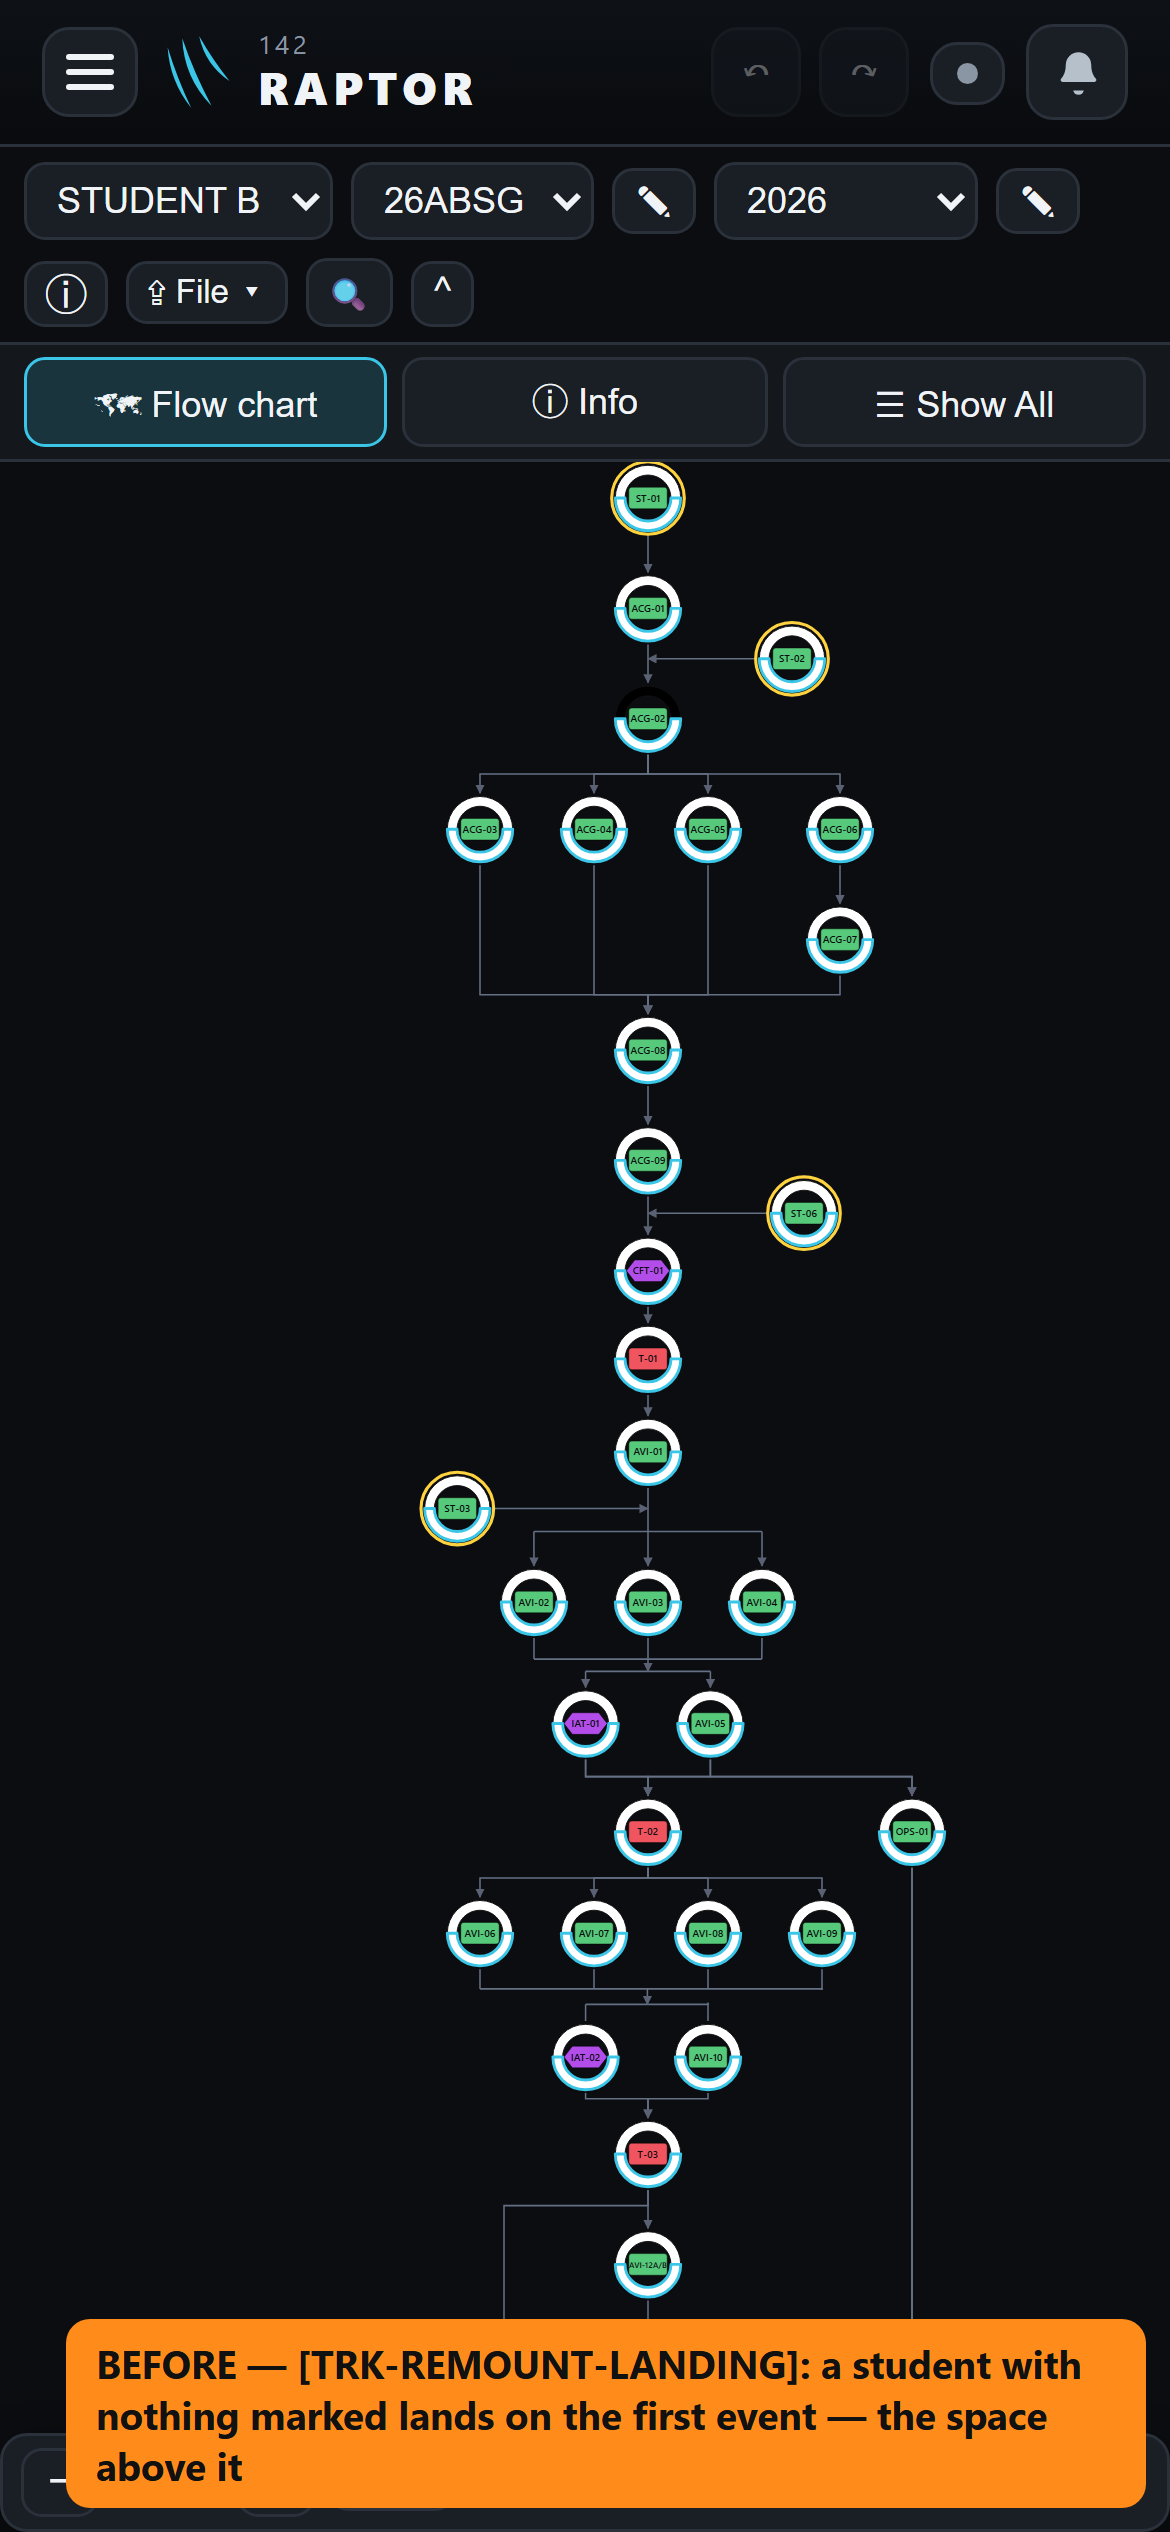
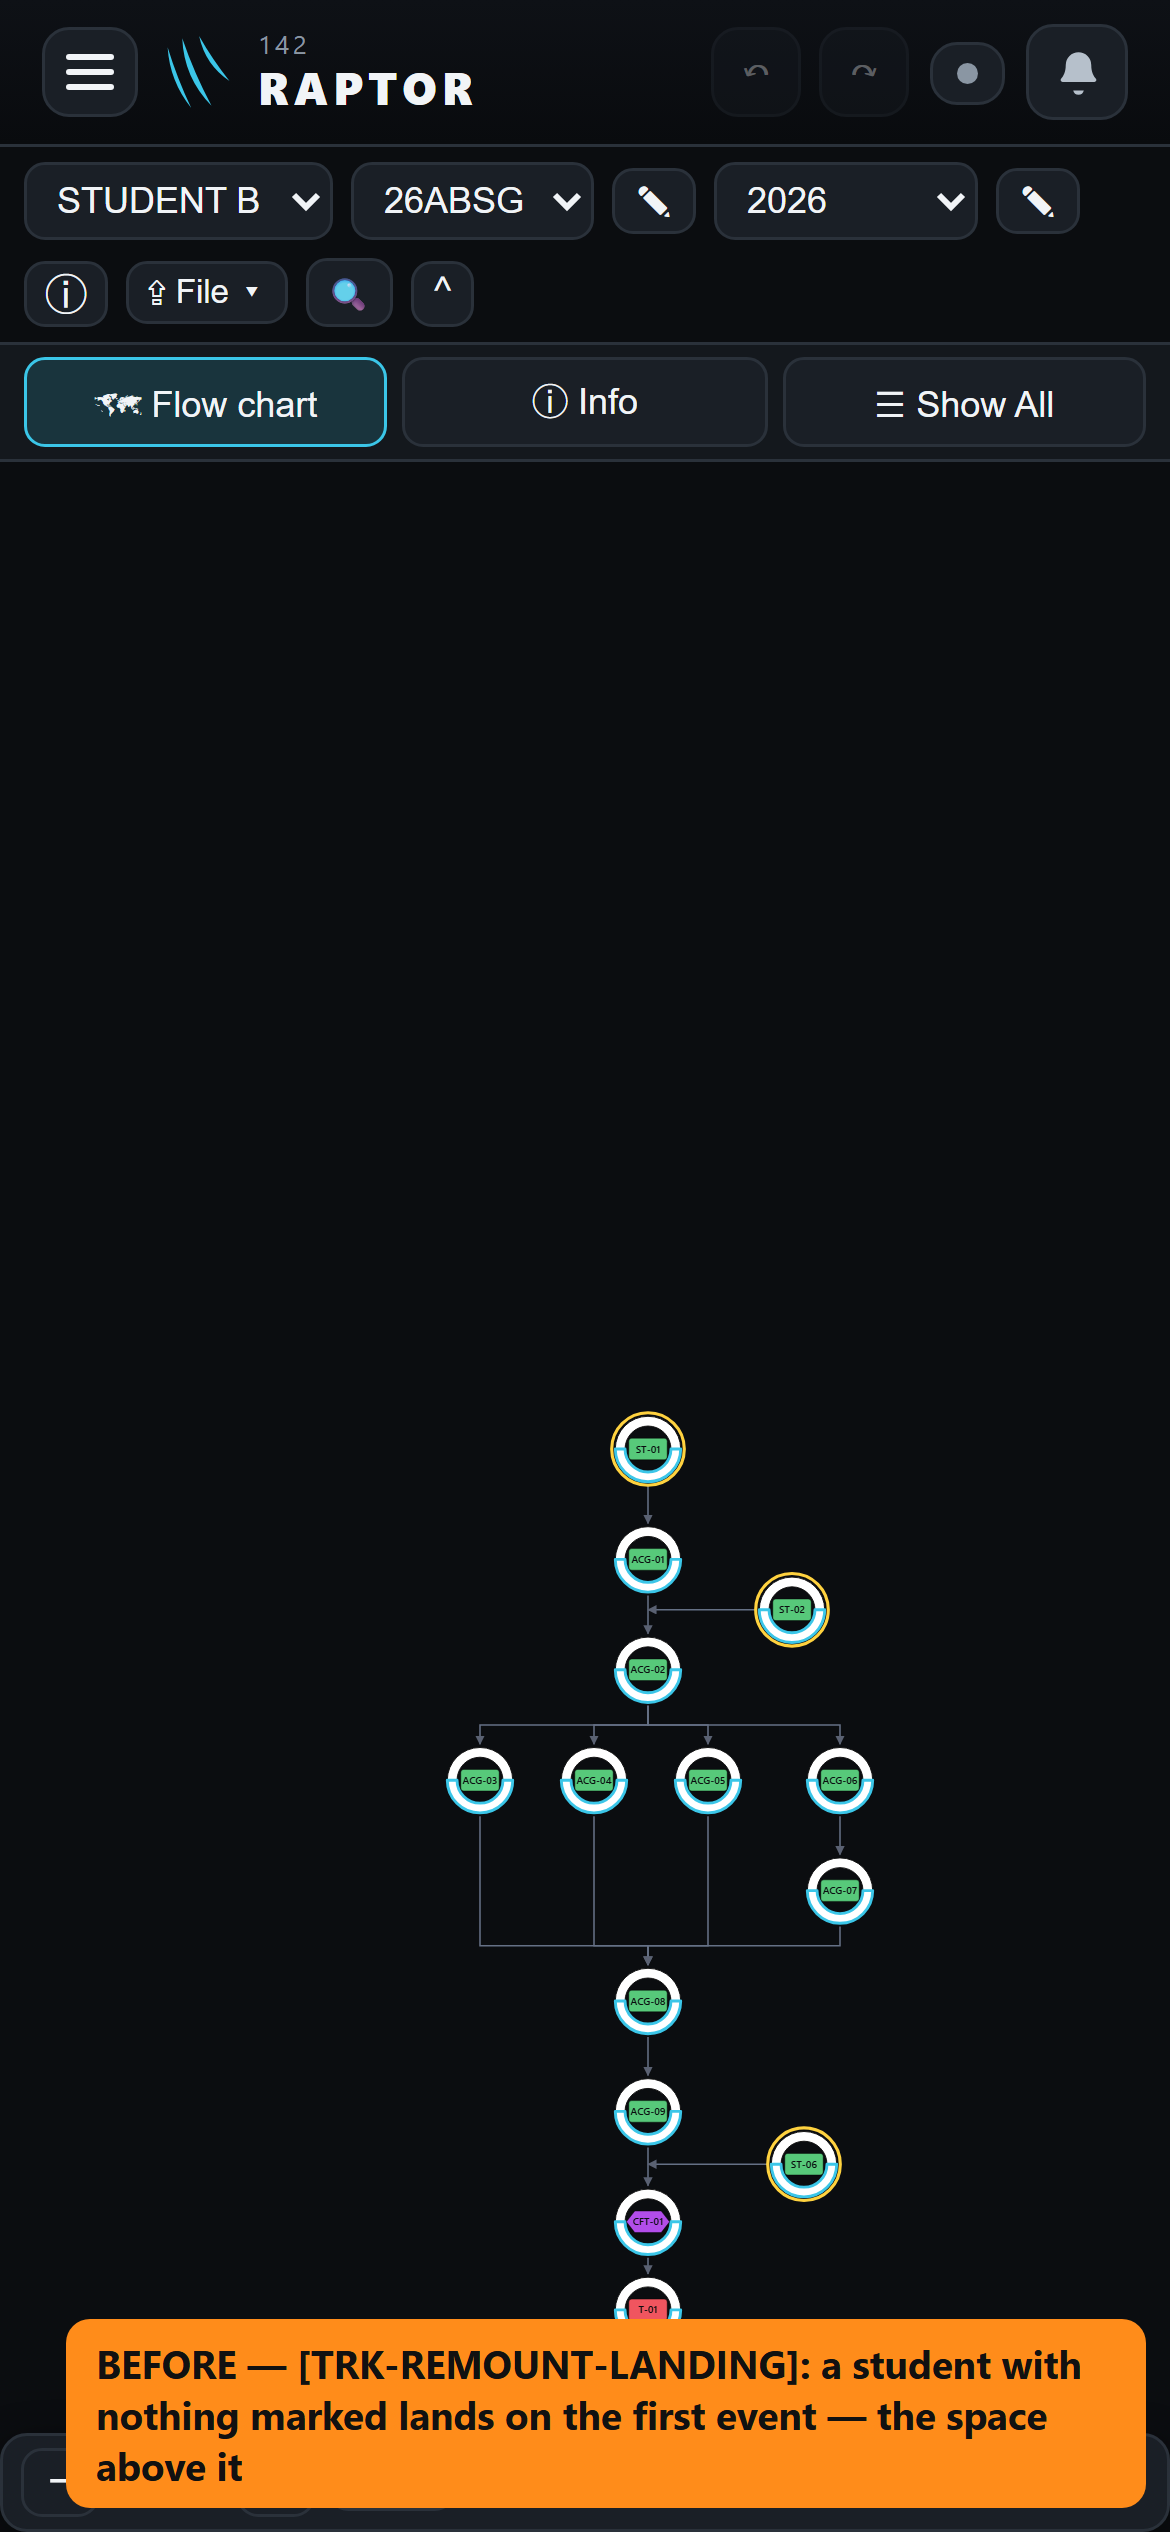
[TRACKER-BATCH] D980: a mouse grade draws no keyboard ring; the pop-up takes the keyboard once placed; the ring stays while it is up
The first after-pictures showed both: the blue ring after a grade pressed with the mouse
(the clicked button held the focus), and Enter's pop-up not taking the keyboard (it is drawn
hidden while it measures where to sit). Also the landing pictures now mark an event deep in
the chart and pick a student with the chart in view.

diff --git a/raptor-port/src/tracker/app/core.js b/raptor-port/src/tracker/app/core.js
@@ -3759,7 +3759,8 @@ function enableHScroll(el) {
     else if (e.key === 'End') { el.scrollLeft = el.scrollWidth; e.preventDefault(); }
   });
   el.addEventListener('focus', () => { let fv = true; try { fv = el.matches(':focus-visible'); } catch (_) {} kbdShown = fv; if (fv) { kbdLand(); paintKbdRing(); kbdKeepInView(); } });
-  el.addEventListener('blur', () => { kbdShown = false; paintKbdRing(); });
+  /* the keyboard leaving for the pop-up it opened keeps the ring on, so the event being marked stays marked */
+  el.addEventListener('blur', () => { if (pop && popByKey) return; kbdShown = false; paintKbdRing(); });
 }
 /* THE CHART BY KEYBOARD, ON A DESKTOP (owner D980, 17 Oct 26 — "As recommended", round 1, question 2). ONE Tab reaches
    the chart (the board is the one Tab stop — never one for each of its events); then the arrows follow its lines —
@@ -4389,10 +4390,14 @@ export function openPop(id, evt) {
 /* popByKey: the pop-up was opened from the keyboard, so it takes the keyboard (Pop.jsx) */
 export let popByKey = false;
 export function closePop() {
-  /* the keyboard was inside the pop-up: it goes back to the chart, on the same event, never to nothing (D980) */
-  const inside = typeof document !== 'undefined' && document.activeElement && document.activeElement.closest && !!document.activeElement.closest('#pop');
+  /* the KEYBOARD was inside the pop-up: it goes back to the chart, on the same event, never to nothing (D980). A mouse
+     press on a grade also puts the focus on that button (Chrome does), but that is no keyboard: the chart is not given
+     the focus and no ring is drawn — the walk's picture of a mouse grade wore the ring (17 Oct 26) */
+  const a = typeof document !== 'undefined' ? document.activeElement : null;
+  const inside = !!(a && a.closest && a.closest('#pop'));
+  let keys = popByKey; if (inside && !keys) { try { keys = a.matches(':focus-visible'); } catch (_) {} }
   pop = null; popMsg = null; popByKey = false; notify();
-  if (inside) kbdBack();
+  if (inside && keys) kbdBack();
 }
 /* A tap on a ball, outside arrange mode (owner, 9 Sep 26 — "click exactly at
    the portion of the pokeball that person exist in"): the ring is the crew

diff --git a/raptor-port/src/tracker/trk-batch-ui.test.tsx b/raptor-port/src/tracker/trk-batch-ui.test.tsx
@@ -80,6 +80,7 @@ describe('D980 — the chart by keyboard', () => {
     expect(C.pop && C.pop.id, 'the pop-up opens on that event').toBe(id)
     const g = C.gradeOf(C.active, id) || 0
     expect((document.activeElement as HTMLElement).dataset.g, 'the keyboard is on its grade as it is').toBe(g === 0 ? '0' : g)
+    expect(ball(id)!.querySelector('.kbdring'), 'the event being marked keeps its ring while the pop-up is up').toBeTruthy()
     /* Tab stays inside the pop-up */
     const pop = document.getElementById('pop')!
     const all = [...pop.querySelectorAll('button')], last = all[all.length - 1]!; last.focus()
@@ -105,6 +106,20 @@ describe('D980 — the chart by keyboard', () => {
     expect(C.pop).toBeNull()
     expect(C.gradeOf(C.active, id)).toBe('dco')
     expect(document.activeElement).toBe(board)
+    host.remove()
+  })
+
+  it('a grade pressed with the MOUSE (its button holding the focus, as Chrome leaves it) gives the chart no focus and draws no ring', async () => {
+    const { host } = await render(<Live draw={() => <Pop />} />)
+    ;(document.activeElement as HTMLElement)?.blur?.()
+    const id = C.SYL[3].id
+    await act(async () => { C.openPop(id, { clientX: 5, clientY: 5 }); await tick() })
+    const btn = document.querySelector('#pop .opts button[data-g="marg"]') as HTMLButtonElement
+    btn.focus()
+    await act(async () => { btn.click(); await tick() })
+    expect(C.gradeOf(C.active, id)).toBe('marg')
+    expect(document.activeElement, 'the chart is not given the focus').not.toBe(board)
+    expect(document.querySelectorAll('#flowSvg .kbdring'), 'no keyboard ring').toHaveLength(0)
     host.remove()
   })
 

diff --git a/raptor-port/src/tracker/components/Pop.jsx b/raptor-port/src/tracker/components/Pop.jsx
@@ -28,13 +28,14 @@ export default function Pop() {
      has now (Not done when it has none), so a second Enter changes nothing; the pop-up's own Escape (core.handleEscapeKey)
      and every grade and Close hand the keyboard back to the same event on the chart (core.closePop). Opened by a mouse or
      a finger it takes nothing, as before. */
-  const opened = p && p.id, byKey = core.popByKey;
+  /* after it is placed (posn): until then it is drawn hidden to be measured, and a hidden button takes no focus */
+  const opened = p && p.id, byKey = core.popByKey, placed = !!posn;
   useEffect(() => {
-    if (!opened || !byKey || !ref.current) return;
+    if (!opened || !byKey || !placed || !ref.current) return;
     const g = core.gradeOf(core.active, opened) || 0;
     const b = ref.current.querySelector(`.opts button[data-g="${g === 0 ? '0' : g}"]`) || ref.current.querySelector('.opts button');
     if (b) b.focus({ preventScroll: true });
-  }, [opened, byKey]);
+  }, [opened, byKey, placed]);
   /* Tab and Shift+Tab go round inside it (the design guide §2 — a window keeps the keyboard), and ← → ↑ ↓ step along
      the row of grades */
   const onKeyDown = e => {
